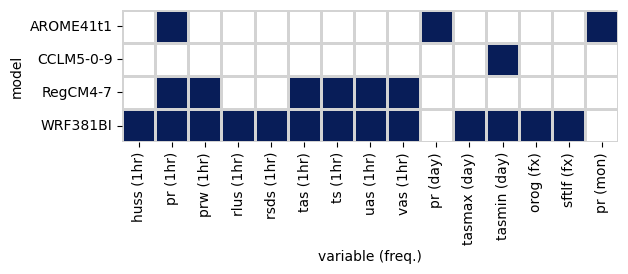
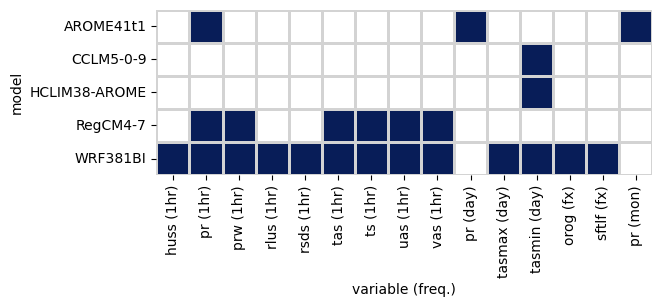
Update FPSCONV

Changed region(s): [[0.0, 0.0292, 0.9984, 0.9051], [0.5143, 0.9051, 0.6959, 0.9635]]

diff --git a/docs/CORDEX_FPSCONV_status.html b/docs/CORDEX_FPSCONV_status.html
@@ -18,7 +18,7 @@ a:active { text-decoration: underline;}
 </style>
 </head><body>
 <h1 id="top"> CORDEX-FPSCONV ESGF summary tables</h1>
-<p style="text-align: right;">(Version: 2023-08-03 17:36)</p>
+<p style="text-align: right;">(Version: 2023-08-11 16:22)</p>
 <p style="text-align:left"> Domains:</p>
 <ul>
   <li><a href="#ALP-3">ALP-3</a>  </li>
@@ -29,30 +29,32 @@ a:active { text-decoration: underline;}
       <span class="published">published</span>
     </p>
   <style  type="text/css" >
-    #T_7adc4_ .level0 {
+    #T_03135_ .level0 {
           min-width: 100px;
-    }    #T_7adc4_ th {
+    }    #T_03135_ th {
           font-size: 8pt;
           border-style: solid;
           border-width: 1px;
-    }#T_7adc4_row0_col0,#T_7adc4_row0_col1,#T_7adc4_row0_col2,#T_7adc4_row0_col3,#T_7adc4_row1_col0,#T_7adc4_row1_col1,#T_7adc4_row1_col2,#T_7adc4_row1_col3{
+    }#T_03135_row0_col0,#T_03135_row0_col1,#T_03135_row0_col2,#T_03135_row0_col3,#T_03135_row0_col4,#T_03135_row1_col0,#T_03135_row1_col1,#T_03135_row1_col2,#T_03135_row1_col3,#T_03135_row1_col4{
             font-size:  8pt;
             border:  1px lightgrey solid !important;
-        }</style><table id="T_7adc4_" ><thead>    <tr>        <th class="blank" ></th>        <th class="index_name level0" >Institution(s)</th>        <th class="col_heading level0 col0" >CNRM</th>        <th class="col_heading level0 col1" >CLMcom-CMCC</th>        <th class="col_heading level0 col2" >ICTP</th>        <th class="col_heading level0 col3" >UCAN</th>    </tr>    <tr>        <th class="blank" ></th>        <th class="index_name level1" >RCM</th>        <th class="col_heading level1 col0" >AROME41t1</th>        <th class="col_heading level1 col1" >CCLM5-0-9</th>        <th class="col_heading level1 col2" >RegCM4-7</th>        <th class="col_heading level1 col3" >WRF381BI</th>    </tr>    <tr>        <th class="index_name level0" >driving_model</th>        <th class="index_name level1" >ensemble</th>        <th class="blank" ></th>        <th class="blank" ></th>        <th class="blank" ></th>        <th class="blank" ></th>    </tr></thead><tbody>
+        }</style><table id="T_03135_" ><thead>    <tr>        <th class="blank" ></th>        <th class="index_name level0" >Institution(s)</th>        <th class="col_heading level0 col0" >CNRM</th>        <th class="col_heading level0 col1" >CLMcom-CMCC</th>        <th class="col_heading level0 col2" >HCLIMcom</th>        <th class="col_heading level0 col3" >ICTP</th>        <th class="col_heading level0 col4" >UCAN</th>    </tr>    <tr>        <th class="blank" ></th>        <th class="index_name level1" >RCM</th>        <th class="col_heading level1 col0" >AROME41t1</th>        <th class="col_heading level1 col1" >CCLM5-0-9</th>        <th class="col_heading level1 col2" >HCLIM38-AROME</th>        <th class="col_heading level1 col3" >RegCM4-7</th>        <th class="col_heading level1 col4" >WRF381BI</th>    </tr>    <tr>        <th class="index_name level0" >driving_model</th>        <th class="index_name level1" >ensemble</th>        <th class="blank" ></th>        <th class="blank" ></th>        <th class="blank" ></th>        <th class="blank" ></th>        <th class="blank" ></th>    </tr></thead><tbody>
                 <tr>
-                        <th id="T_7adc4_level0_row0" class="row_heading level0 row0" >ECMWF-ERAINT</th>
-                        <th id="T_7adc4_level1_row0" class="row_heading level1 row0" >r1i1p1</th>
-                        <td id="T_7adc4_row0_col0" class="data row0 col0" ><span class="published">evaluation</span> <span class="published">evaluation</span> <span class="published">evaluation</span></td>
-                        <td id="T_7adc4_row0_col1" class="data row0 col1" ><span class="published">evaluation</span></td>
-                        <td id="T_7adc4_row0_col2" class="data row0 col2" ><span class="published">evaluation</span> <span class="published">evaluation</span> <span class="published">evaluation</span> <span class="published">evaluation</span> <span class="published">evaluation</span> <span class="published">evaluation</span></td>
-                        <td id="T_7adc4_row0_col3" class="data row0 col3" ><span class="published">evaluation</span> <span class="published">evaluation</span> <span class="published">evaluation</span> <span class="published">evaluation</span> <span class="published">evaluation</span> <span class="published">evaluation</span> <span class="published">evaluation</span> <span class="published">evaluation</span> <span class="published">evaluation</span> <span class="published">evaluation</span> <span class="published">evaluation</span> <span class="published">evaluation</span> <span class="published">evaluation</span></td>
+                        <th id="T_03135_level0_row0" class="row_heading level0 row0" >ECMWF-ERAINT</th>
+                        <th id="T_03135_level1_row0" class="row_heading level1 row0" >r1i1p1</th>
+                        <td id="T_03135_row0_col0" class="data row0 col0" ><span class="published">evaluation</span> <span class="published">evaluation</span> <span class="published">evaluation</span></td>
+                        <td id="T_03135_row0_col1" class="data row0 col1" ><span class="published">evaluation</span></td>
+                        <td id="T_03135_row0_col2" class="data row0 col2" ><span class="published">evaluation</span></td>
+                        <td id="T_03135_row0_col3" class="data row0 col3" ><span class="published">evaluation</span> <span class="published">evaluation</span> <span class="published">evaluation</span> <span class="published">evaluation</span> <span class="published">evaluation</span> <span class="published">evaluation</span></td>
+                        <td id="T_03135_row0_col4" class="data row0 col4" ><span class="published">evaluation</span> <span class="published">evaluation</span> <span class="published">evaluation</span> <span class="published">evaluation</span> <span class="published">evaluation</span> <span class="published">evaluation</span> <span class="published">evaluation</span> <span class="published">evaluation</span> <span class="published">evaluation</span> <span class="published">evaluation</span> <span class="published">evaluation</span> <span class="published">evaluation</span> <span class="published">evaluation</span></td>
             </tr>
             <tr>
-                        <th id="T_7adc4_level0_row1" class="row_heading level0 row1" >CNRM-CERFACS-CNRM-CM5</th>
-                        <th id="T_7adc4_level1_row1" class="row_heading level1 row1" >r1i1p1</th>
-                        <td id="T_7adc4_row1_col0" class="data row1 col0" ><span class="published">rcp85</span> <span class="published">rcp85</span> <span class="published">rcp85</span></td>
-                        <td id="T_7adc4_row1_col1" class="data row1 col1" ></td>
-                        <td id="T_7adc4_row1_col2" class="data row1 col2" ></td>
-                        <td id="T_7adc4_row1_col3" class="data row1 col3" ></td>
+                        <th id="T_03135_level0_row1" class="row_heading level0 row1" >CNRM-CERFACS-CNRM-CM5</th>
+                        <th id="T_03135_level1_row1" class="row_heading level1 row1" >r1i1p1</th>
+                        <td id="T_03135_row1_col0" class="data row1 col0" ><span class="published">rcp85</span> <span class="published">rcp85</span> <span class="published">rcp85</span></td>
+                        <td id="T_03135_row1_col1" class="data row1 col1" ></td>
+                        <td id="T_03135_row1_col2" class="data row1 col2" ></td>
+                        <td id="T_03135_row1_col3" class="data row1 col3" ></td>
+                        <td id="T_03135_row1_col4" class="data row1 col4" ></td>
             </tr>
     </tbody></table></body></html>

diff --git a/docs/CORDEX_FPSCONV_varlist.html b/docs/CORDEX_FPSCONV_varlist.html
@@ -34,7 +34,7 @@ span.published {color: #3399FF; font-weight: bold}
 </head>
 <body>
 <h1>CORDEX-FPSCONV on ESGF</h1>
-<p> CORDEX-FPSCONV simulations providing some data on ESGF as of <b>2023-08-03 17:36</b>. The full list as CSV can be obtained from <a href="https://github.com/WCRP-CORDEX/simulation-status/raw/main/docs/CORDEX_FPSCONV_ESGF_all_variables.csv">here</a>.
+<p> CORDEX-FPSCONV simulations providing some data on ESGF as of <b>2023-08-11 16:22</b>. The full list as CSV can be obtained from <a href="https://github.com/WCRP-CORDEX/simulation-status/raw/main/docs/CORDEX_FPSCONV_ESGF_all_variables.csv">here</a>.
 </p>
 <img src="CORDEX_FPSCONV_varlist.png"/>
 
@@ -137,6 +137,18 @@ span.published {color: #3399FF; font-weight: bold}
             <td>fpsconv-x2yn2-v1</td>
             <td>mon</td>
             <td>pr</td>
+            <td><span class="published">published</span></td>
+        </tr>
+        <tr>
+            <td>ALP-3</td>
+            <td>HCLIMcom</td>
+            <td>ECMWF-ERAINT</td>
+            <td>evaluation</td>
+            <td>r1i1p1</td>
+            <td>HCLIM38-AROME</td>
+            <td>fpsconv-x2yn2-v1</td>
+            <td>day</td>
+            <td>tasmin</td>
             <td><span class="published">published</span></td>
         </tr>
         <tr>
